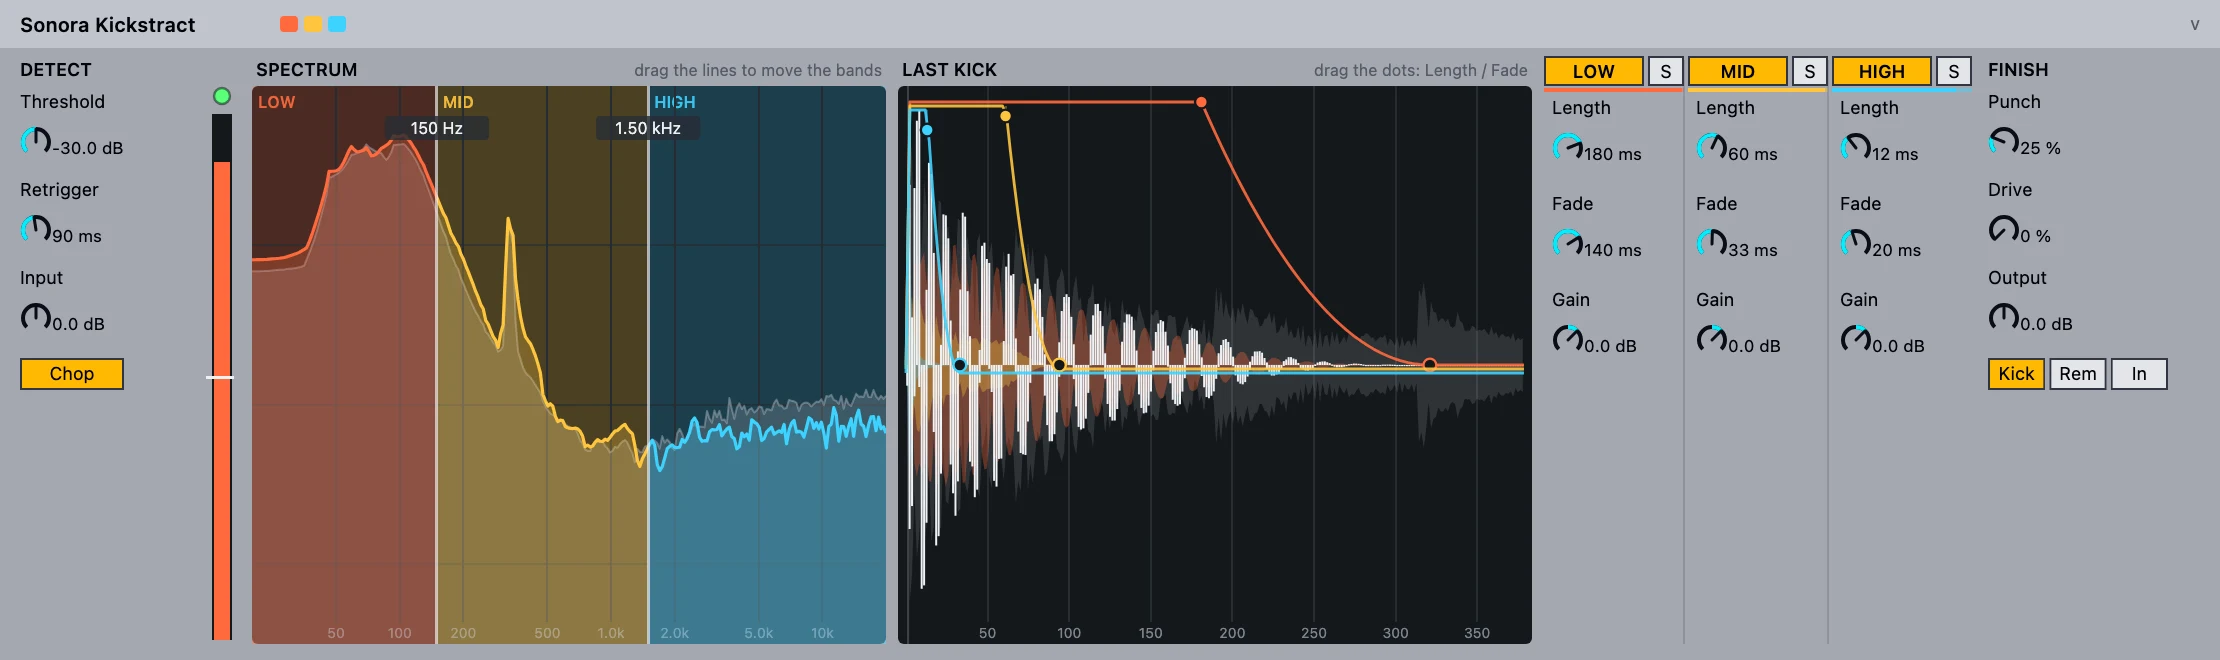
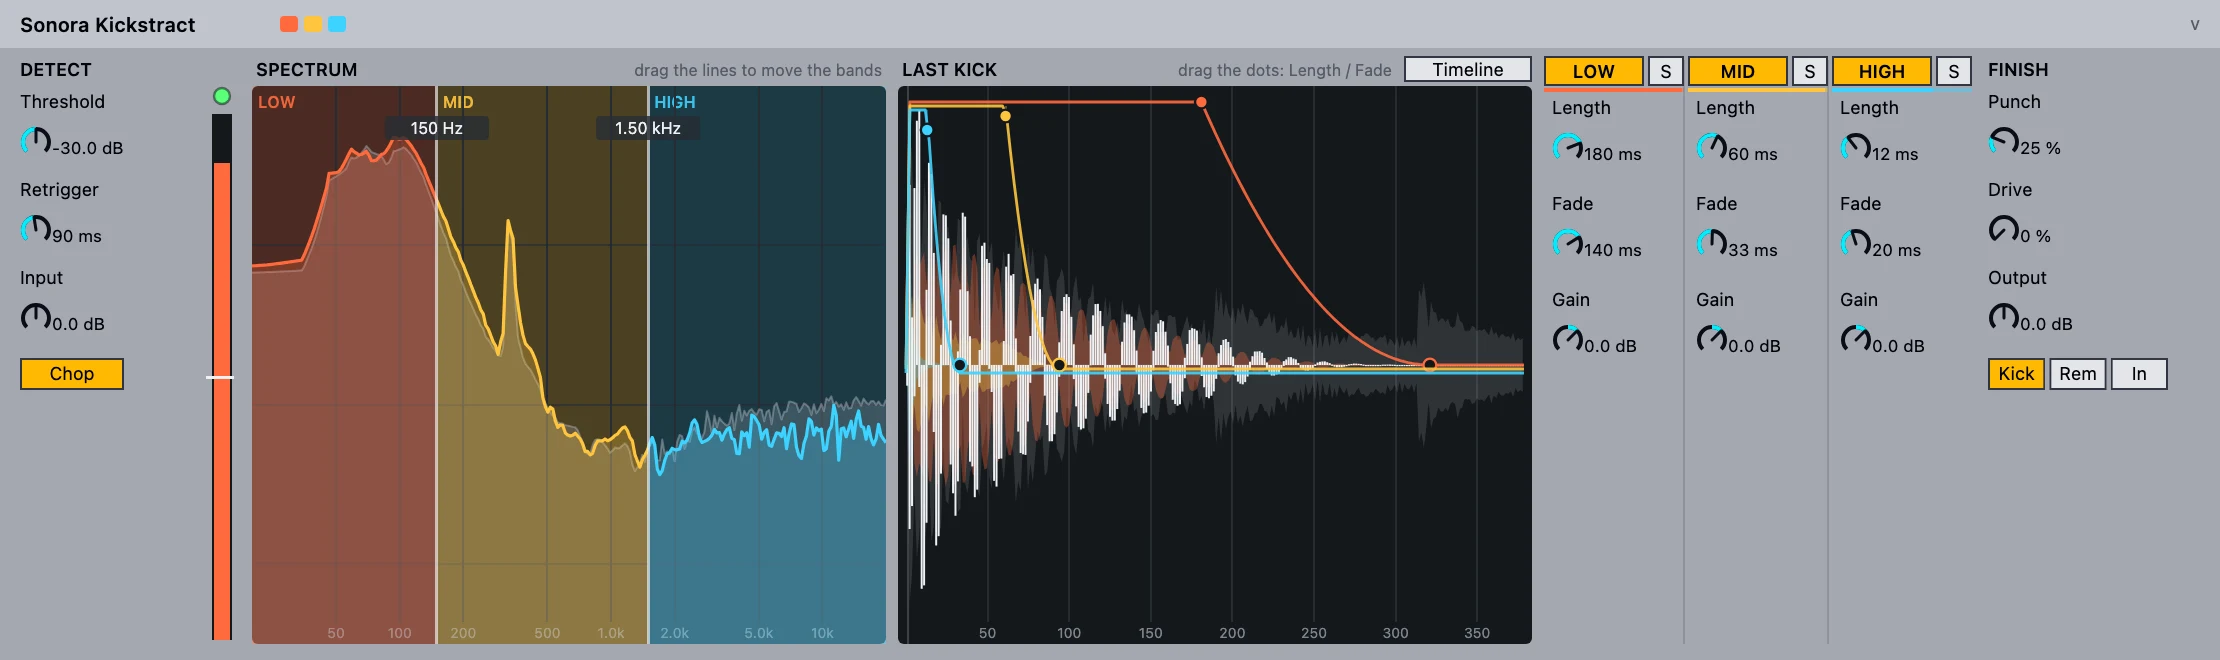
Site for Sonora 0.1.27

diff --git a/download.html b/download.html
@@ -68,7 +68,7 @@
           <a class="btn btn-ghost" href="#files">All downloads</a>
         </div>
         <p class="small faint" id="dl-note" style="margin-top:16px">Pick the file for your computer below.</p>
-        <p class="small faint" style="margin-top:4px">Current version: <span data-version>0.1.26</span></p>
+        <p class="small faint" style="margin-top:4px">Current version: <span data-version>0.1.27</span></p>
         <p class="small" style="margin-top:8px"><span class="badge badge-alpha">Alpha</span> Expect bugs. <a href="#alpha">Read this first</a>.</p>
       </div>
       <figure class="shot hide-narrow"><img src="assets/img/splash.webp" width="1200" height="720" alt="Sonora's start-up window: the Sonora wordmark and the tagline Music production, open."></figure>
@@ -96,29 +96,29 @@
     <div class="section-head">
       <span class="eyebrow">Sonora DAW</span>
       <h2>Pick your system</h2>
-      <p class="lede">Version <span data-version>0.1.26</span>, the newest release. Each file name carries its version. Older versions and the <code>.sha256</code> checksums are on <a href="https://github.com/lordillusions/sonora/releases">GitHub Releases</a>, next to the source code.</p>
+      <p class="lede">Version <span data-version>0.1.27</span>, the newest release. Each file name carries its version. Older versions and the <code>.sha256</code> checksums are on <a href="https://github.com/lordillusions/sonora/releases">GitHub Releases</a>, next to the source code.</p>
     </div>
     <div class="grid dl-grid">
       <div class="card dl-card" data-os="mac">
         <span class="tag">macOS · Apple silicon · Alpha</span>
         <h3>Sonora for Mac</h3>
         <p>The main version. Open the disk image and drag Sonora to Applications. The first time, macOS asks you to allow it: see <a href="#first-launch">first launch</a>.</p>
-        <p class="file">Sonora-0.1.26.dmg</p>
-        <a class="btn btn-ghost btn-small" href="https://github.com/lordillusions/sonora/releases/download/v0.1.26/Sonora-0.1.26.dmg">Download for Mac</a>
+        <p class="file">Sonora-0.1.27.dmg</p>
+        <a class="btn btn-ghost btn-small" href="https://github.com/lordillusions/sonora/releases/download/v0.1.27/Sonora-0.1.27.dmg">Download for Mac</a>
       </div>
       <div class="card dl-card" data-os="windows">
         <span class="tag">Windows x64 · Early alpha</span>
         <h3>Sonora for Windows</h3>
         <p>An early build, much less tested than the Mac version. From 0.1.8 it updates itself; Windows still warns about an unknown publisher: see <a href="#first-launch">first launch</a>.</p>
-        <p class="file">Sonora-0.1.26-windows-x64-setup.exe</p>
-        <a class="btn btn-ghost btn-small" href="https://github.com/lordillusions/sonora/releases/download/v0.1.26/Sonora-0.1.26-windows-x64-setup.exe">Download for Windows</a>
+        <p class="file">Sonora-0.1.27-windows-x64-setup.exe</p>
+        <a class="btn btn-ghost btn-small" href="https://github.com/lordillusions/sonora/releases/download/v0.1.27/Sonora-0.1.27-windows-x64-setup.exe">Download for Windows</a>
       </div>
       <div class="card dl-card" data-os="linux">
         <span class="tag">Linux x64 · Early alpha</span>
         <h3>Sonora for Linux</h3>
         <p>Ubuntu and Debian: get the <code>.deb</code> package, it installs Sonora with your other apps. Other distributions: the AppImage, which needs one extra step before it runs (see <a href="#first-launch">first launch</a>). Both update themselves from 0.1.8 on.</p>
-        <p class="file">sonora_0.1.26_amd64.deb<br>Sonora-0.1.26-x86_64.AppImage</p>
-        <div class="btn-row"><a class="btn btn-ghost btn-small" href="https://github.com/lordillusions/sonora/releases/download/v0.1.26/sonora_0.1.26_amd64.deb">.deb (Ubuntu, Debian)</a><a class="btn btn-ghost btn-small" href="https://github.com/lordillusions/sonora/releases/download/v0.1.26/Sonora-0.1.26-x86_64.AppImage">AppImage</a></div>
+        <p class="file">sonora_0.1.27_amd64.deb<br>Sonora-0.1.27-x86_64.AppImage</p>
+        <div class="btn-row"><a class="btn btn-ghost btn-small" href="https://github.com/lordillusions/sonora/releases/download/v0.1.27/sonora_0.1.27_amd64.deb">.deb (Ubuntu, Debian)</a><a class="btn btn-ghost btn-small" href="https://github.com/lordillusions/sonora/releases/download/v0.1.27/Sonora-0.1.27-x86_64.AppImage">AppImage</a></div>
       </div>
     </div>
     <p class="table-note">Alpha builds aren't signed by Apple or Microsoft yet, so the first launch needs one extra step: <a href="#first-launch">here's how</a>. Only download Sonora from this site or from <a href="https://github.com/lordillusions/sonora/releases">its GitHub repository</a>.</p>
@@ -138,32 +138,32 @@
         <span class="tag">Instrument · VST3 · macOS Apple silicon</span>
         <h3>Sonora Prism</h3>
         <p>A wavetable synth. Three oscillators that morph through their wavetables, with sub and noise, two filters, envelopes and LFOs you can draw, eight macros, and up to 32 voices with unison. Comes with its own presets.</p>
-        <p class="file">Sonora-Prism-VST3-0.1.26.pkg</p>
-        <a class="btn btn-ghost btn-small" href="https://github.com/lordillusions/sonora/releases/download/v0.1.26/Sonora-Prism-VST3-0.1.26.pkg">Download Prism</a>
+        <p class="file">Sonora-Prism-VST3-0.1.27.pkg</p>
+        <a class="btn btn-ghost btn-small" href="https://github.com/lordillusions/sonora/releases/download/v0.1.27/Sonora-Prism-VST3-0.1.27.pkg">Download Prism</a>
       </div>
       <div class="card dl-card" id="curve-lfo">
         <figure class="shot"><img src="assets/img/plugin-curve-lfo.webp" width="2284" height="616" alt="Sonora Curve LFO: a drawn curve that modulates volume, pan, filter cutoff and resonance, with sync, swing and depth controls." loading="lazy"></figure>
         <span class="tag">Audio effect · VST3 · macOS Apple silicon</span>
         <h3>Sonora Curve LFO</h3>
         <p>Draw a curve and let it move the sound: volume, pan, filter cutoff and resonance, in time with your DAW's tempo. Use it for sidechain-style pumping, gates, filter sweeps and rhythmic movement. MIDI notes can restart the curve.</p>
-        <p class="file">Sonora-Curve-LFO-VST3-0.1.26.pkg</p>
-        <a class="btn btn-ghost btn-small" href="https://github.com/lordillusions/sonora/releases/download/v0.1.26/Sonora-Curve-LFO-VST3-0.1.26.pkg">Download Curve LFO</a>
+        <p class="file">Sonora-Curve-LFO-VST3-0.1.27.pkg</p>
+        <a class="btn btn-ghost btn-small" href="https://github.com/lordillusions/sonora/releases/download/v0.1.27/Sonora-Curve-LFO-VST3-0.1.27.pkg">Download Curve LFO</a>
       </div>
       <div class="card dl-card" id="hush">
         <figure class="shot"><img src="assets/img/plugin-hush.webp" width="1800" height="1064" alt="Sonora Hush: the spectrum with the reduction it applies, a depth curve with band nodes, soft and hard modes, Depth, Detail, Attack and Release knobs, and bypass, delta and mix." loading="lazy"></figure>
         <span class="tag">Audio effect · VST3 · macOS Apple silicon</span>
         <h3>Sonora Hush</h3>
         <p>A dynamic resonance suppressor. Hush finds harsh resonances and build-ups as they happen and turns down only those frequencies, only while they ring. Smooth out vocals, guitars, cymbals and full mixes, with a curve to shape where it works, sidechain, mid/side and a delta mode to hear what it removes. Hush is also built into Sonora itself: you only need this installer to use it in another DAW.</p>
-        <p class="file">Sonora-Hush-VST3-0.1.26.pkg</p>
-        <a class="btn btn-ghost btn-small" href="https://github.com/lordillusions/sonora/releases/download/v0.1.26/Sonora-Hush-VST3-0.1.26.pkg">Download Hush</a>
+        <p class="file">Sonora-Hush-VST3-0.1.27.pkg</p>
+        <a class="btn btn-ghost btn-small" href="https://github.com/lordillusions/sonora/releases/download/v0.1.27/Sonora-Hush-VST3-0.1.27.pkg">Download Hush</a>
       </div>
       <div class="card dl-card" id="kickstract">
         <figure class="shot"><img src="assets/img/plugin-kickstract.webp" width="2220" height="660" alt="Sonora Kickstract: a spectrum split into low, mid and high bands with draggable crossovers, the last extracted kick with each band's gate envelope, band Length, Fade and Gain knobs, and Punch, Drive and Output." loading="lazy"></figure>
         <span class="tag">Audio effect · VST3 · macOS Apple silicon</span>
         <h3>Sonora Kickstract</h3>
-        <p>Pull a clean kick out of a full mix. Kickstract splits the sound into low, mid and high bands (150 Hz and 1.5 kHz to start, move them as you like), hears every kick and cuts each band short right after the hit, so the hats, bass and pads between kicks fall away. Set how long each band rings, add punch and drive, and watch the extracted kick on its own display. Also built into Sonora.</p>
-        <p class="file">Sonora-Kickstract-VST3-0.1.26.pkg</p>
-        <a class="btn btn-ghost btn-small" href="https://github.com/lordillusions/sonora/releases/download/v0.1.26/Sonora-Kickstract-VST3-0.1.26.pkg">Download Kickstract</a>
+        <p>Pull a clean kick out of a full mix. Kickstract splits the sound into low, mid and high bands (150 Hz and 1.5 kHz to start, move them as you like), hears every kick and cuts each band short right after the hit, so the hats, bass and pads between kicks fall away. Set how long each band rings, add punch and drive, and watch the extracted kick on its own display. The Timeline window shows the input, the kick and what was removed scrolling live; freeze it to study a hit. Also built into Sonora.</p>
+        <p class="file">Sonora-Kickstract-VST3-0.1.27.pkg</p>
+        <a class="btn btn-ghost btn-small" href="https://github.com/lordillusions/sonora/releases/download/v0.1.27/Sonora-Kickstract-VST3-0.1.27.pkg">Download Kickstract</a>
       </div>
     </div>
     <p class="table-note">The plug-ins are alpha too, and macOS asks you to allow each installer the first time (<a href="#first-launch">first launch</a>). Windows and Linux versions of the plug-ins aren't available yet.</p>
@@ -193,7 +193,7 @@
         <span class="tag">Windows 10 and 11</span>
         <h3>Windows: "Windows protected your PC"</h3>
         <ol>
-          <li>Run <code>Sonora-0.1.26-windows-x64-setup.exe</code>. SmartScreen shows a blue window.</li>
+          <li>Run <code>Sonora-0.1.27-windows-x64-setup.exe</code>. SmartScreen shows a blue window.</li>
           <li>Click <strong>More info</strong>.</li>
           <li>Click <strong>Run anyway</strong> and follow the installer.</li>
         </ol>
@@ -205,14 +205,14 @@
         <p><strong>Ubuntu or Debian (.deb):</strong></p>
         <ol>
           <li>Open a terminal in your Downloads folder (in Files, right-click an empty area &gt; <strong>Open in Terminal</strong>).</li>
-          <li>Run <code>sudo apt install ./sonora_0.1.26_amd64.deb</code> and type your password.</li>
+          <li>Run <code>sudo apt install ./sonora_0.1.27_amd64.deb</code> and type your password.</li>
           <li>Start Sonora from your apps. <code>.als</code> sets now open in Sonora too.</li>
         </ol>
         <p><strong>AppImage:</strong> browsers save it without permission to run, so double-clicking only offers Disks or App Center. Don't use those:</p>
         <ol>
-          <li>In Files, right-click <code>Sonora-0.1.26-x86_64.AppImage</code> &gt; <strong>Properties</strong>.</li>
+          <li>In Files, right-click <code>Sonora-0.1.27-x86_64.AppImage</code> &gt; <strong>Properties</strong>.</li>
           <li>Turn on <strong>Executable as Program</strong> (on older systems: Permissions tab, <strong>Allow executing file as program</strong>).</li>
-          <li>Close the window and double-click the AppImage. Or, in a terminal: <code>chmod +x Sonora-0.1.26-x86_64.AppImage</code> then <code>./Sonora-0.1.26-x86_64.AppImage</code>.</li>
+          <li>Close the window and double-click the AppImage. Or, in a terminal: <code>chmod +x Sonora-0.1.27-x86_64.AppImage</code> then <code>./Sonora-0.1.27-x86_64.AppImage</code>.</li>
         </ol>
         <p class="small faint">If the AppImage still won't start, run it from a terminal and send us the message it prints.</p>
       </div>
